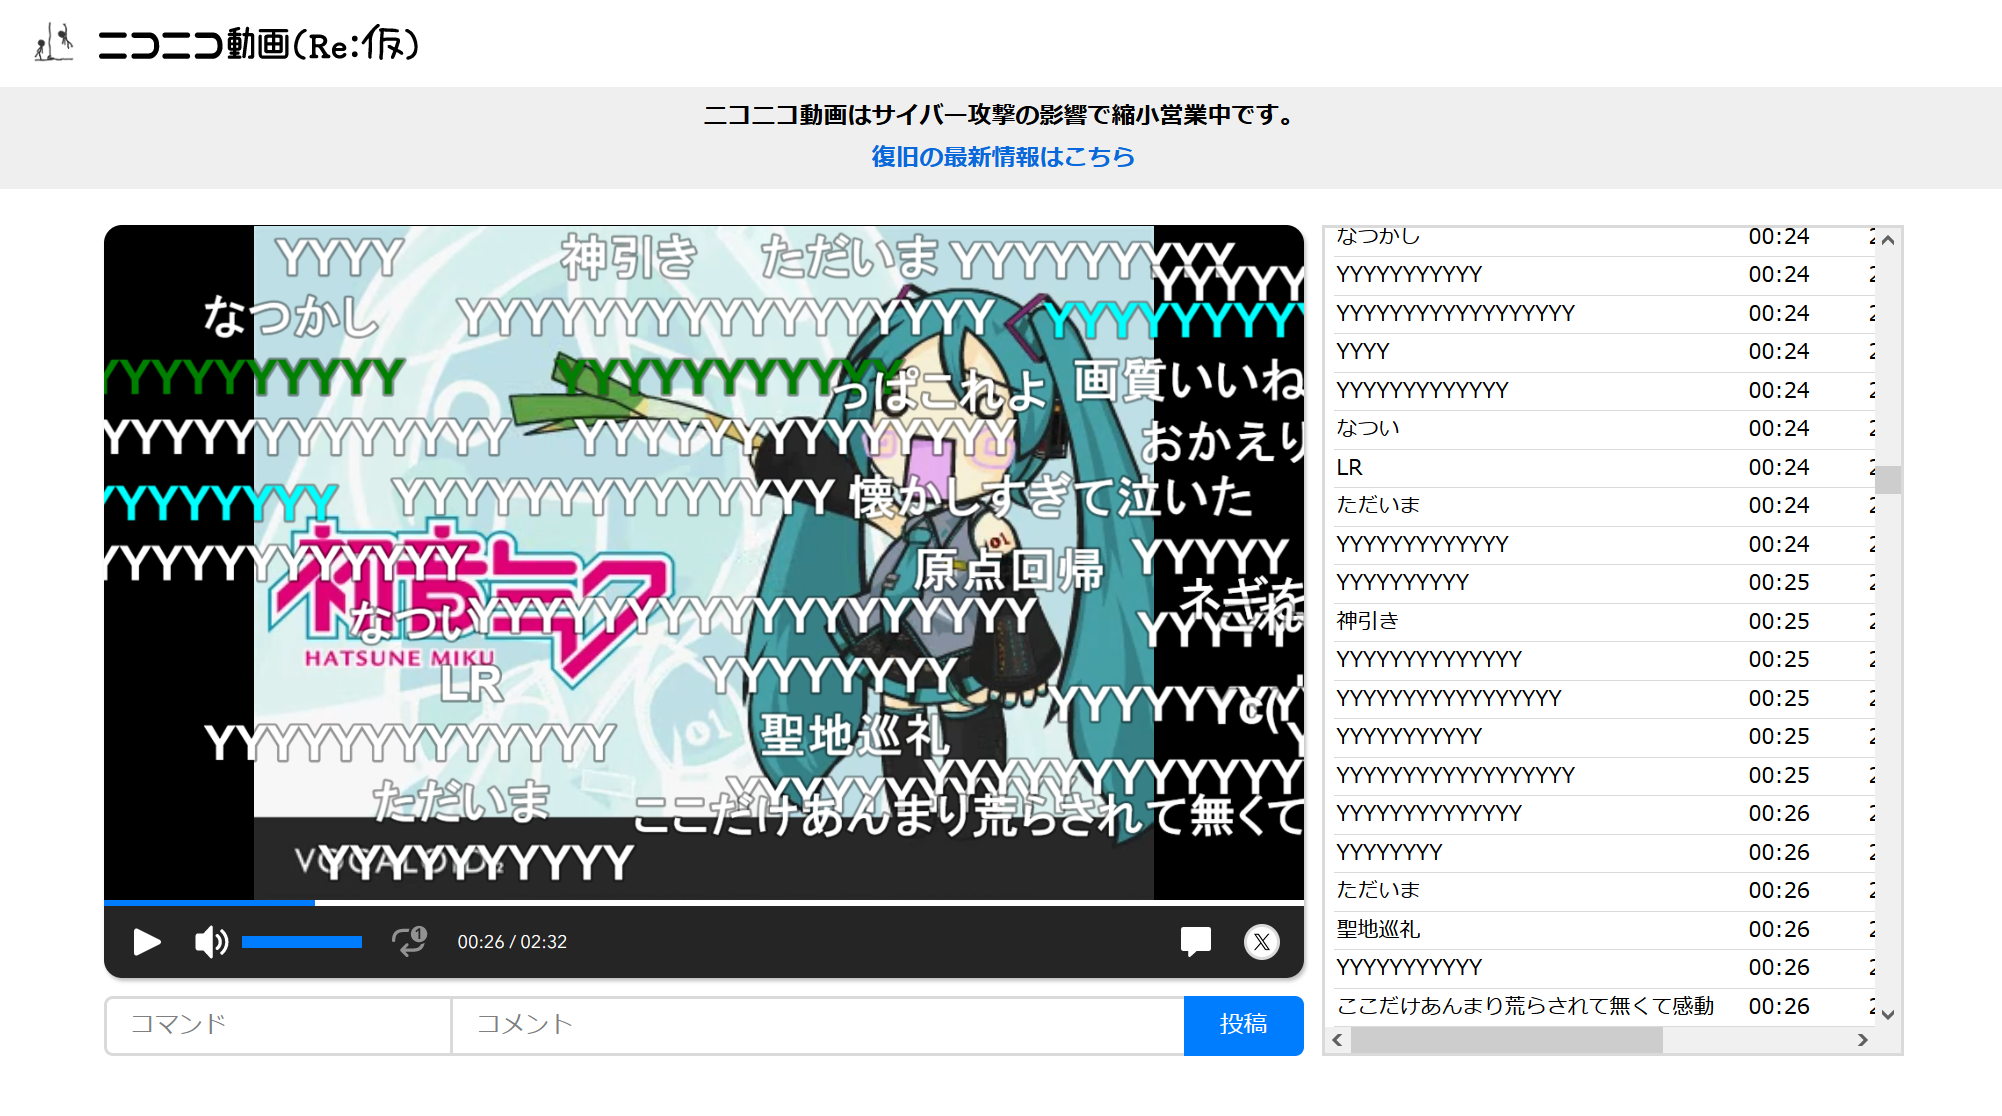
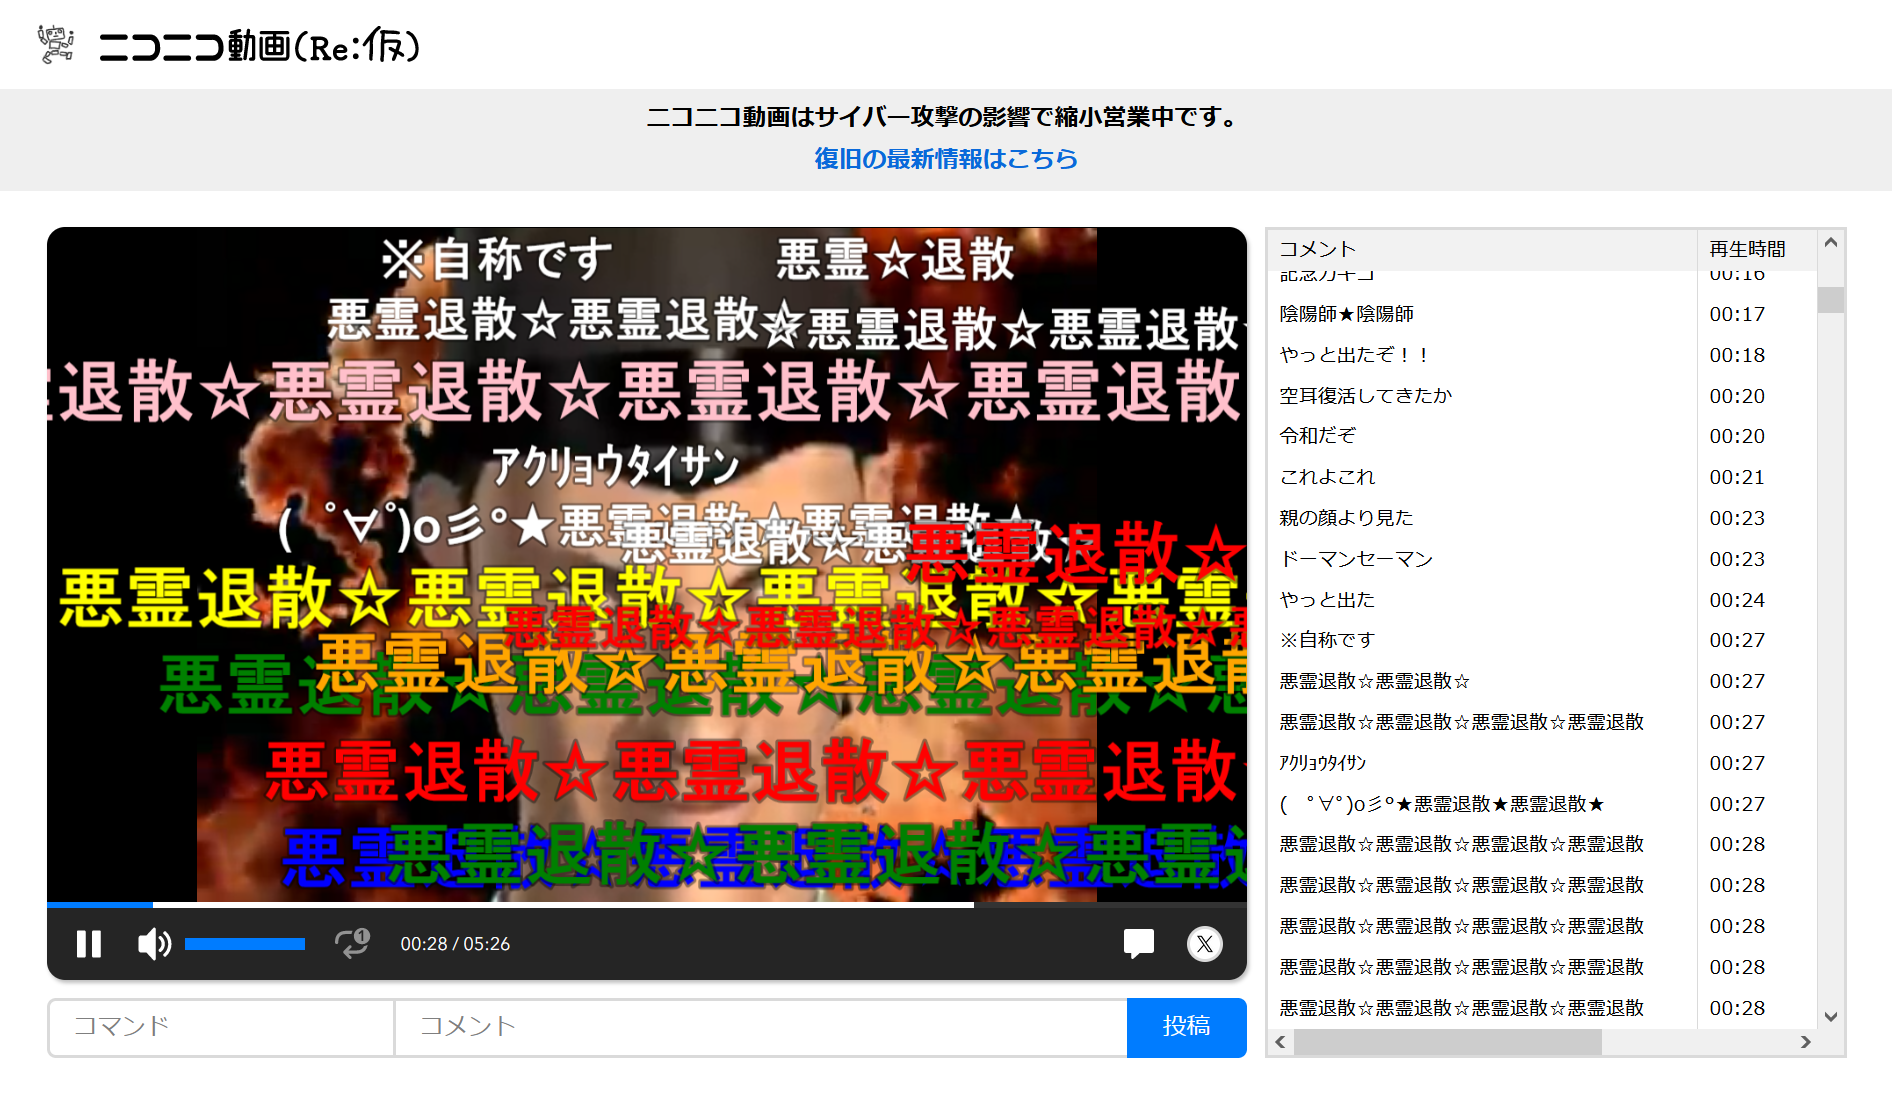
気になったとこ修正

diff --git a/nico-rekari-comment-panel.user.js b/nico-rekari-comment-panel.user.js
@@ -1,8 +1,8 @@
 // ==UserScript==
-// @name     コメントパネル for Re仮
+// @name     コメントパネル for Re:仮
 // @namespace  https://github.com/inonote/nico-rekari-comment-panel-userscript
 // @version    2024-06-14
-// @description ニコニコ動画(Re:仮)にコメントパネルを (無理やり) 導入します
+// @description ニコニコ動画 (Re:仮) にコメントパネルを (無理やり) 導入します
 // @author     いののて
 // @match    https://www.nicovideo.jp/watch_tmp/*
 // @icon     https://www.google.com/s2/favicons?sz=64&domain=nicovideo.jp
@@ -21,7 +21,7 @@
 
   function CommentList() {
     this.elmList = document.createElement("div");
-    this.elmList.setAttribute("style", "border: 2px solid #dadada;width: 100%;padding: 6px;overflow: scroll;position: absolute;height: 100%;font-size:87.5%");
+    this.elmList.setAttribute("style", "border: 2px solid #dadada;width: 100%;overflow: scroll;position: absolute;height: 100%;font-size:80%");
     this.comments = [];
   }
   CommentList.prototype = {
@@ -35,9 +35,19 @@
       this.comments.sort((a, b) => a.vposMsec - b.vposMsec);
       const createItemCol = function(text, width) {
         let elmCol = document.createElement("div");
-        elmCol.setAttribute("style", "min-width: " + width + ";text-overflow: ellipsis;overflow: hidden;white-space: nowrap;padding: 2px;border-bottom: 1px solid #dadada;");
+        elmCol.setAttribute("style", "min-width: " + width + ";text-overflow: ellipsis;overflow: hidden;white-space: nowrap;padding: 4px 8px;border-right: 1px solid #dadada;");
         elmCol.innerText = text;
         return elmCol;
+      }
+
+      // ヘッダー
+      {
+        let elmListItem = document.createElement("div");
+        elmListItem.setAttribute("style", "display: flex;position: sticky;top: 0;");
+        elmListItem.appendChild(createItemCol("コメント", "calc(100% - 80px);background: #f2f2f2"));
+        elmListItem.appendChild(createItemCol("再生時間", "80px;background: #f2f2f2"));
+        elmListItem.appendChild(createItemCol("書込日時", "180px;background: #f2f2f2"));
+        this.elmList.appendChild(elmListItem);
       }
 
       for(let idx = 0; idx < this.comments.length; ++idx) {
@@ -93,7 +103,7 @@
     let comments = resp.data.comments;
     console.log("コメント件数", resp.data.comments.length);
 
-    commentList.comments = comments.slice();
+    commentList.comments = comments;
     commentList.draw();
 
     return false;
@@ -155,14 +165,14 @@
     /*
 
     +-----------------------------------------+
-    | elmPage (main > div:first-child)        |
+    | elmPage (main > div:first-child)    |
     | +-------------------------------------+ |
-    | | elmColContainer                     | |
+    | | elmColContainer           | |
     | | +------------+  +-----------------+ | |
-    | | | elmColLeft |  | elmColRight     | | |
+    | | | elmColLeft |  | elmColRight   | | |
     | | | +--------+ |  | +-------------+ | | |
     | | | | video  | |  | | commentList | | | |
-    | | | | input  | |  | |             | | | |
+    | | | | input  | |  | |       | | | |
     | | | +--------+ |  | +-------------+ | | |
     | | +------------+  +-----------------+ | |
     | +-------------------------------------+ |
